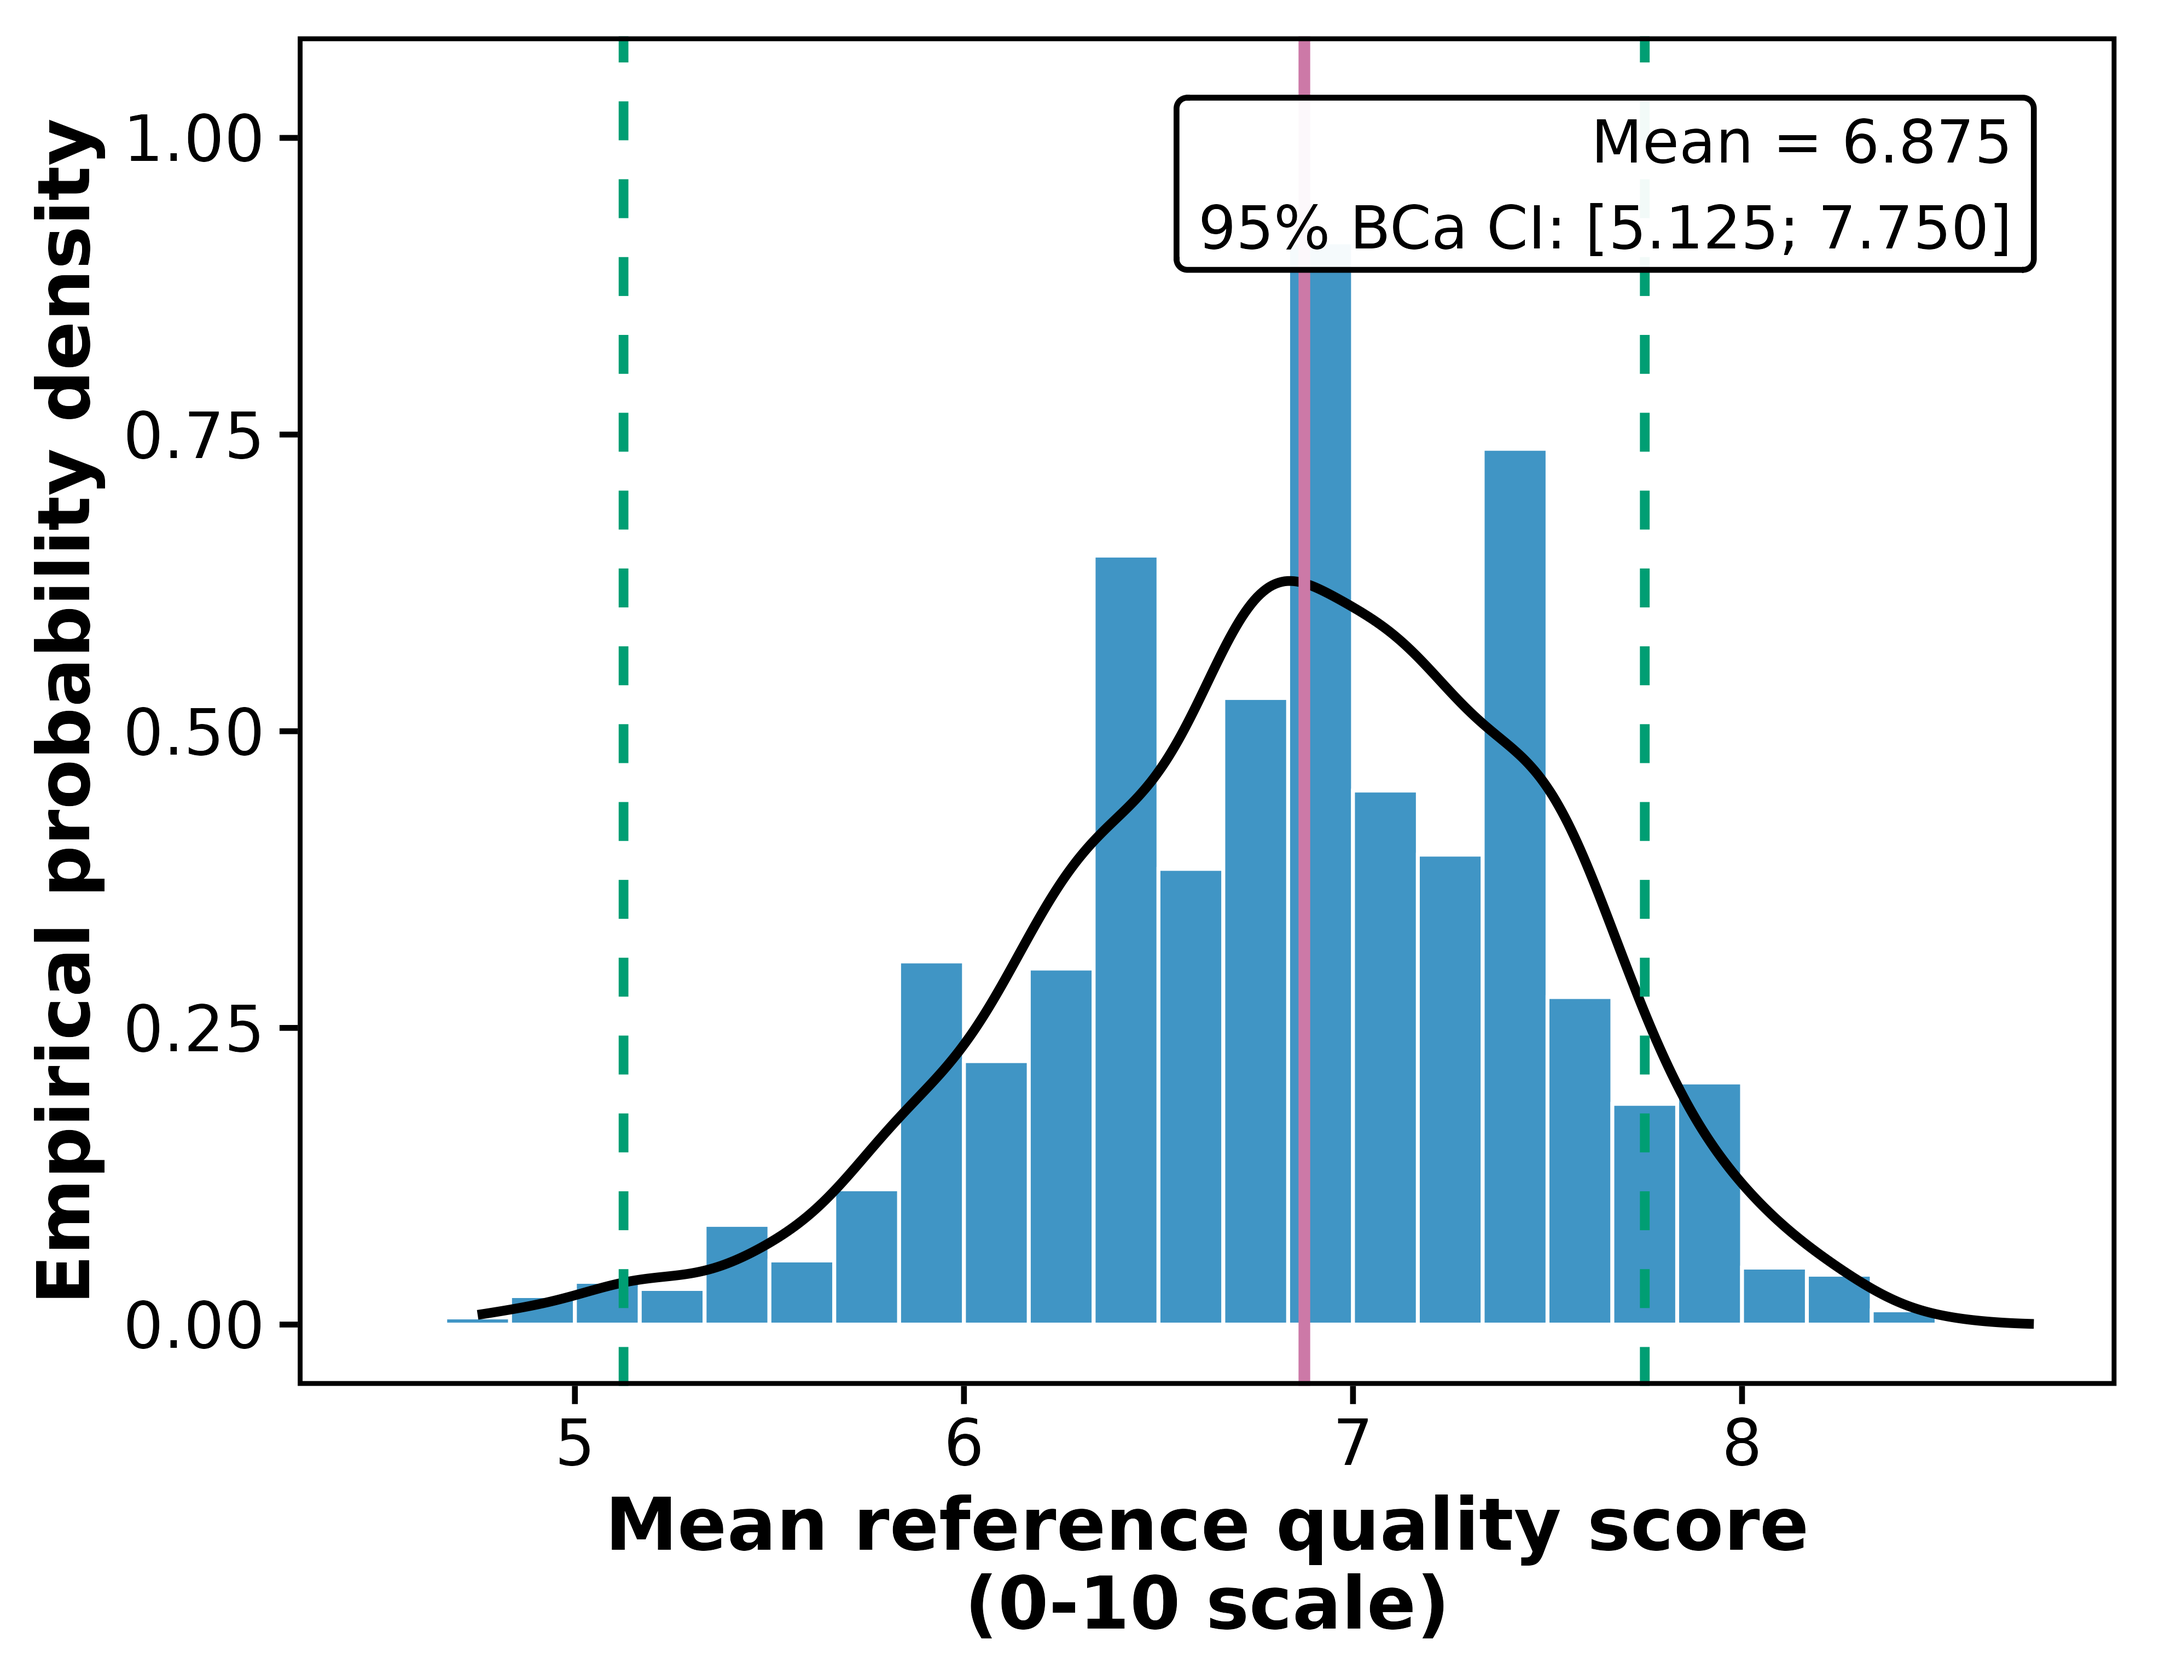
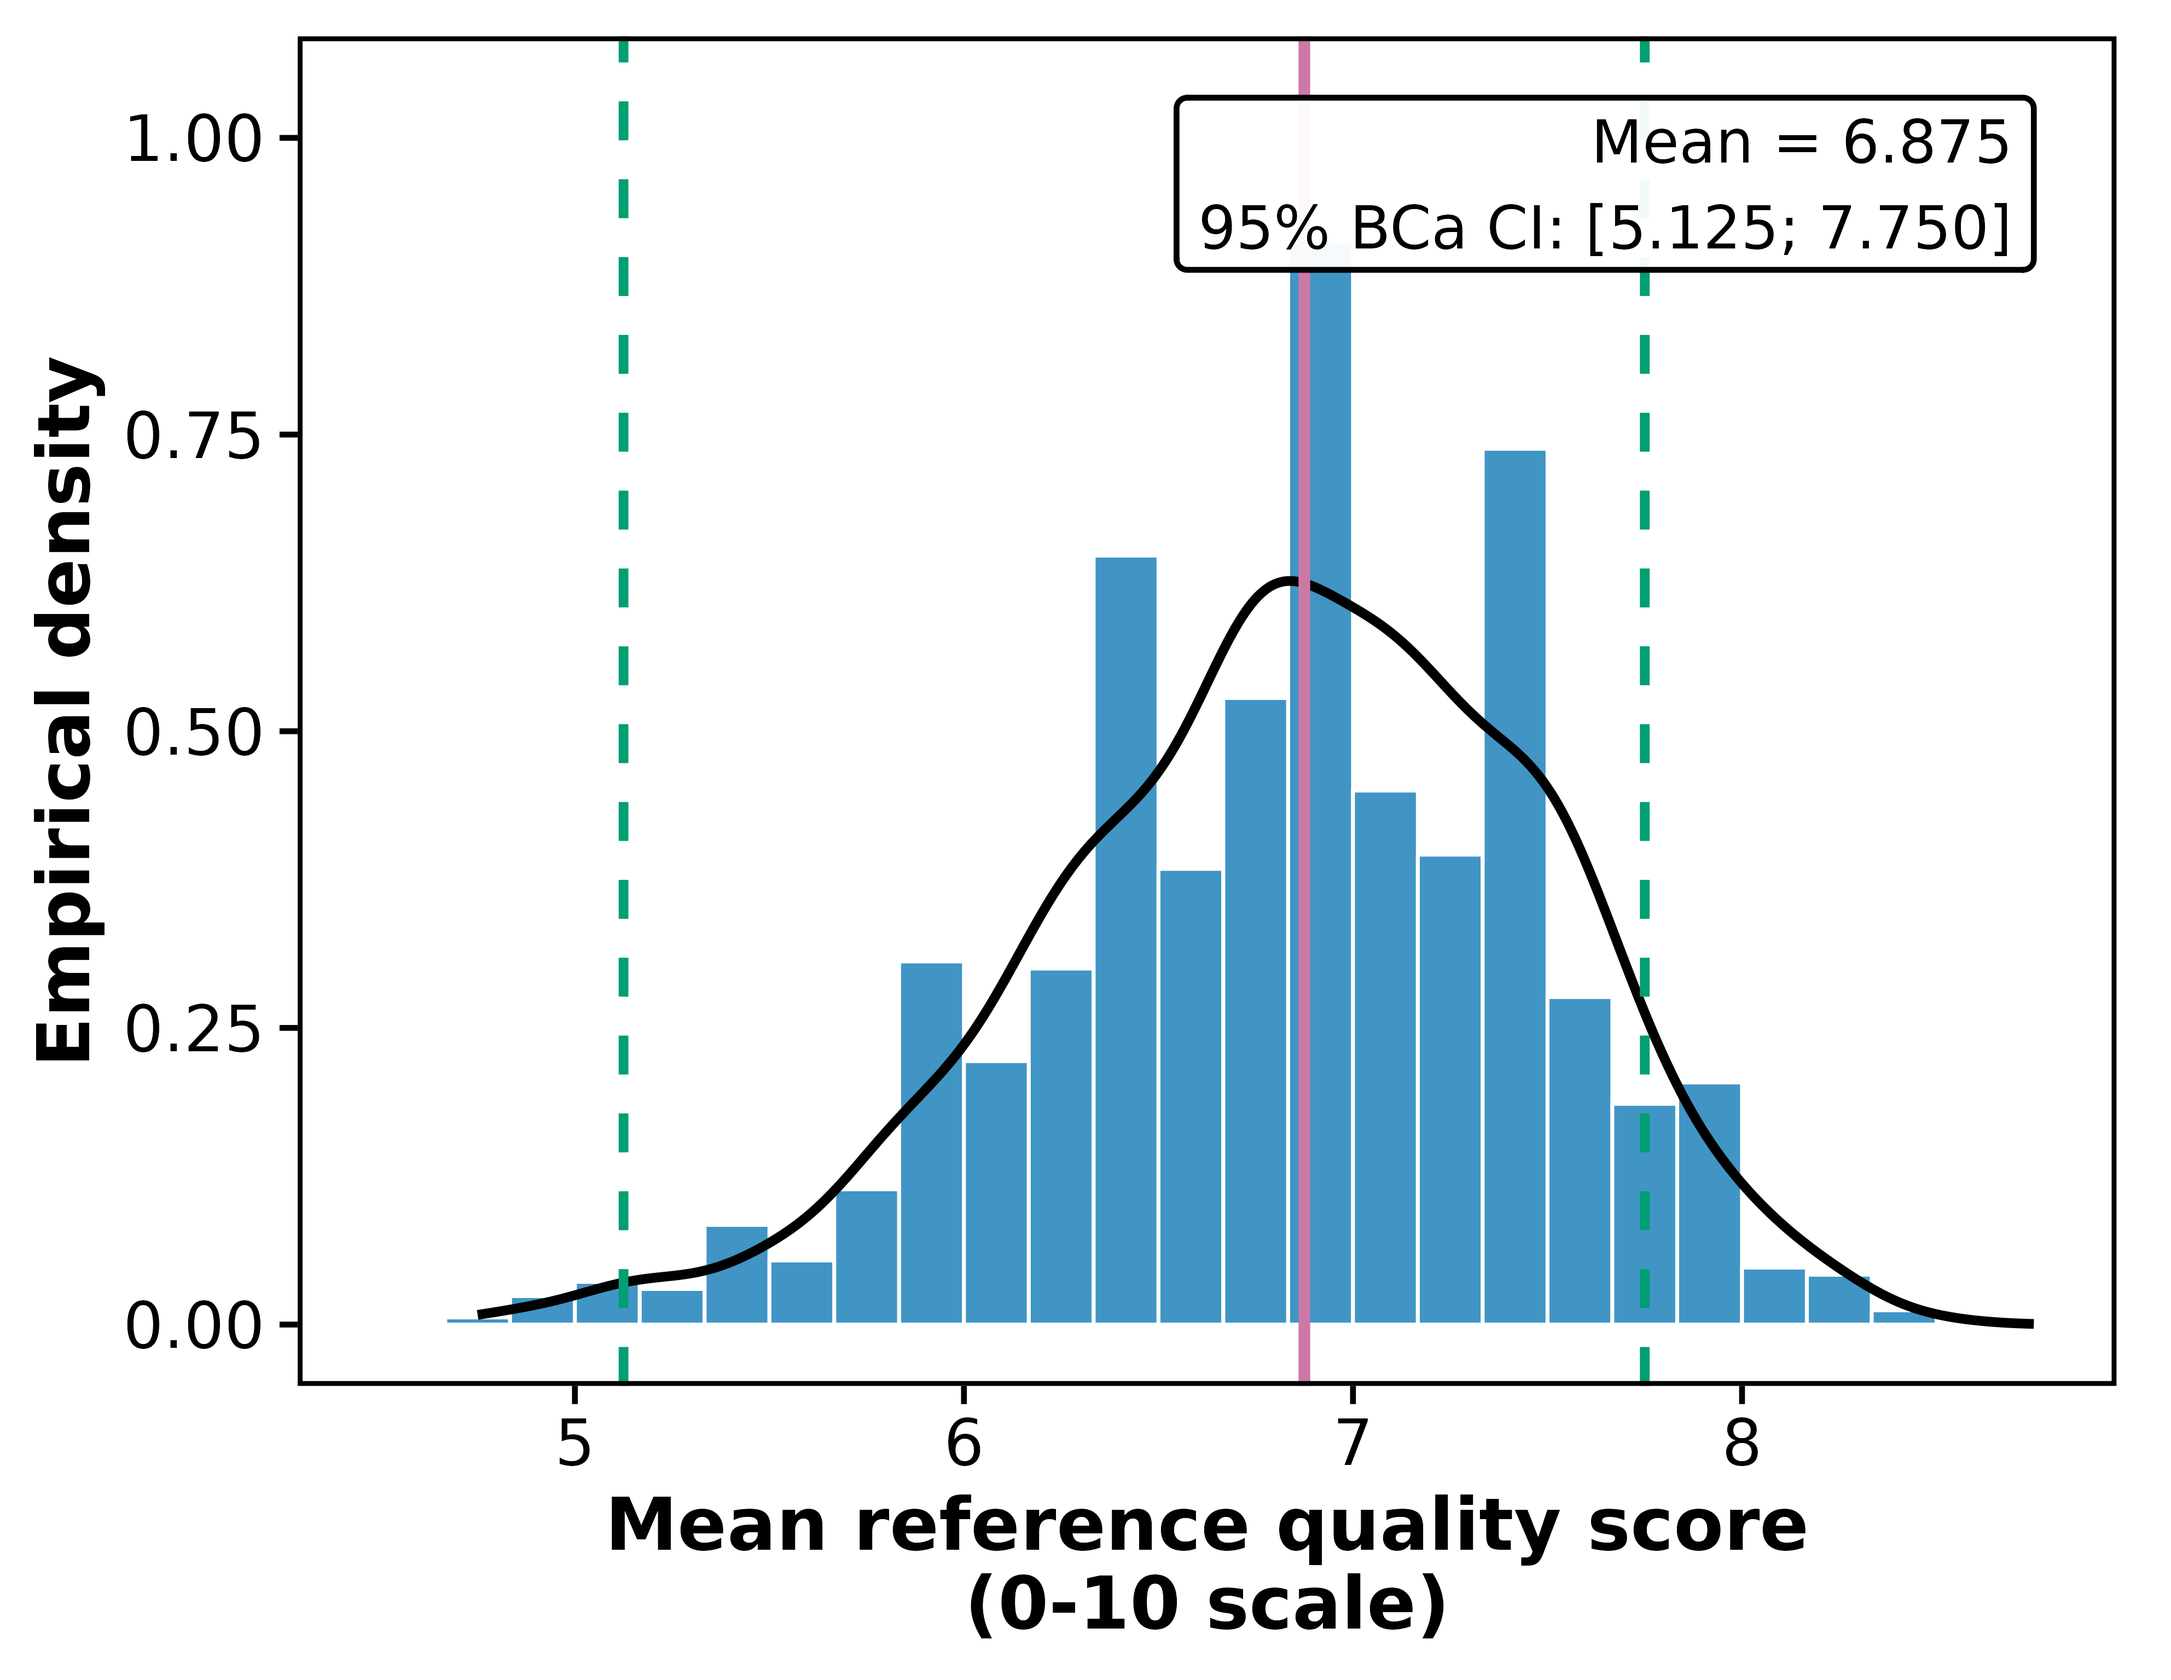
Exporta el RMSE de validación cruzada y la comparación de tamaños de simulación
- 02: guarda el RMSE de validación cruzada sobre UCI
- 04: réplicas necesarias según Azuma-Hoeffding y según la aproximación normal;
  etiqueta del eje de la figura bootstrap en dos líneas para que no se corte

Changed region(s): [[0.0, 0.0619, 0.0625, 0.7736]]

diff --git a/results/valores_paper.tex b/results/valores_paper.tex
@@ -1,4 +1,11 @@
 % Generado por 04_bootstrap_inen.R. No editar a mano.
+\newcommand{\ValFilasReplicas}{%
+	Azuma-Hoeffding & $26\,492$ & No asintótica \\
+	Aproximación normal, peor caso ($\theta = 0,5$) & $16\,588$ & Asintótica \\
+	Aproximación normal, $\theta = \hat{\theta}_Q$ & $10\,990$ & Asintótica \\
+}
+\newcommand{\ValRazonReplicas}{1,6}
+\newcommand{\ValRMSEcv}{0,61}
 \newcommand{\ValFilasUmbral}{%
 	$5,0$ & 7 & 1 \\
 	$5,5$ & 5 & 3 \\

diff --git a/results/tablas/tabla_inen_en.tex b/results/tablas/tabla_inen_en.tex
@@ -1,5 +1,5 @@
 % latex table generated in R 4.6.1 by xtable 1.8-8 package
-% Sat Oct 10 16:30:50 2026
+% Sat Oct 10 17:19:31 2026
 \begin{sidewaystable}[ht]
 \centering
 \begin{tabular}{rlrrrlll}

diff --git a/results/tablas/tabla_inen_es.tex b/results/tablas/tabla_inen_es.tex
@@ -1,5 +1,5 @@
 % latex table generated in R 4.6.1 by xtable 1.8-8 package
-% Sat Oct 10 16:30:50 2026
+% Sat Oct 10 17:19:31 2026
 \begin{sidewaystable}[ht]
 \centering
 \begin{tabular}{rlrrrlll}

diff --git a/results/tablas/tabla_estadisticas_en.tex b/results/tablas/tabla_estadisticas_en.tex
@@ -1,5 +1,5 @@
 % latex table generated in R 4.6.1 by xtable 1.8-8 package
-% Sat Oct 10 16:30:50 2026
+% Sat Oct 10 17:19:31 2026
 \begin{table}[ht]
 \centering
 \begin{tabular}{lrrrr}

diff --git a/results/tablas/tabla_estadisticas_es.tex b/results/tablas/tabla_estadisticas_es.tex
@@ -1,5 +1,5 @@
 % latex table generated in R 4.6.1 by xtable 1.8-8 package
-% Sat Oct 10 16:30:50 2026
+% Sat Oct 10 17:19:31 2026
 \begin{table}[ht]
 \centering
 \begin{tabular}{lrrrr}

diff --git a/results/tablas/tabla_importancia_en.tex b/results/tablas/tabla_importancia_en.tex
@@ -1,5 +1,5 @@
 % latex table generated in R 4.6.1 by xtable 1.8-8 package
-% Sat Oct 10 16:30:50 2026
+% Sat Oct 10 17:19:31 2026
 \begin{table}[ht]
 \centering
 \begin{tabular}{lrrr}

diff --git a/results/tablas/tabla_importancia_es.tex b/results/tablas/tabla_importancia_es.tex
@@ -1,5 +1,5 @@
 % latex table generated in R 4.6.1 by xtable 1.8-8 package
-% Sat Oct 10 16:30:50 2026
+% Sat Oct 10 17:19:31 2026
 \begin{table}[ht]
 \centering
 \begin{tabular}{lrrr}
